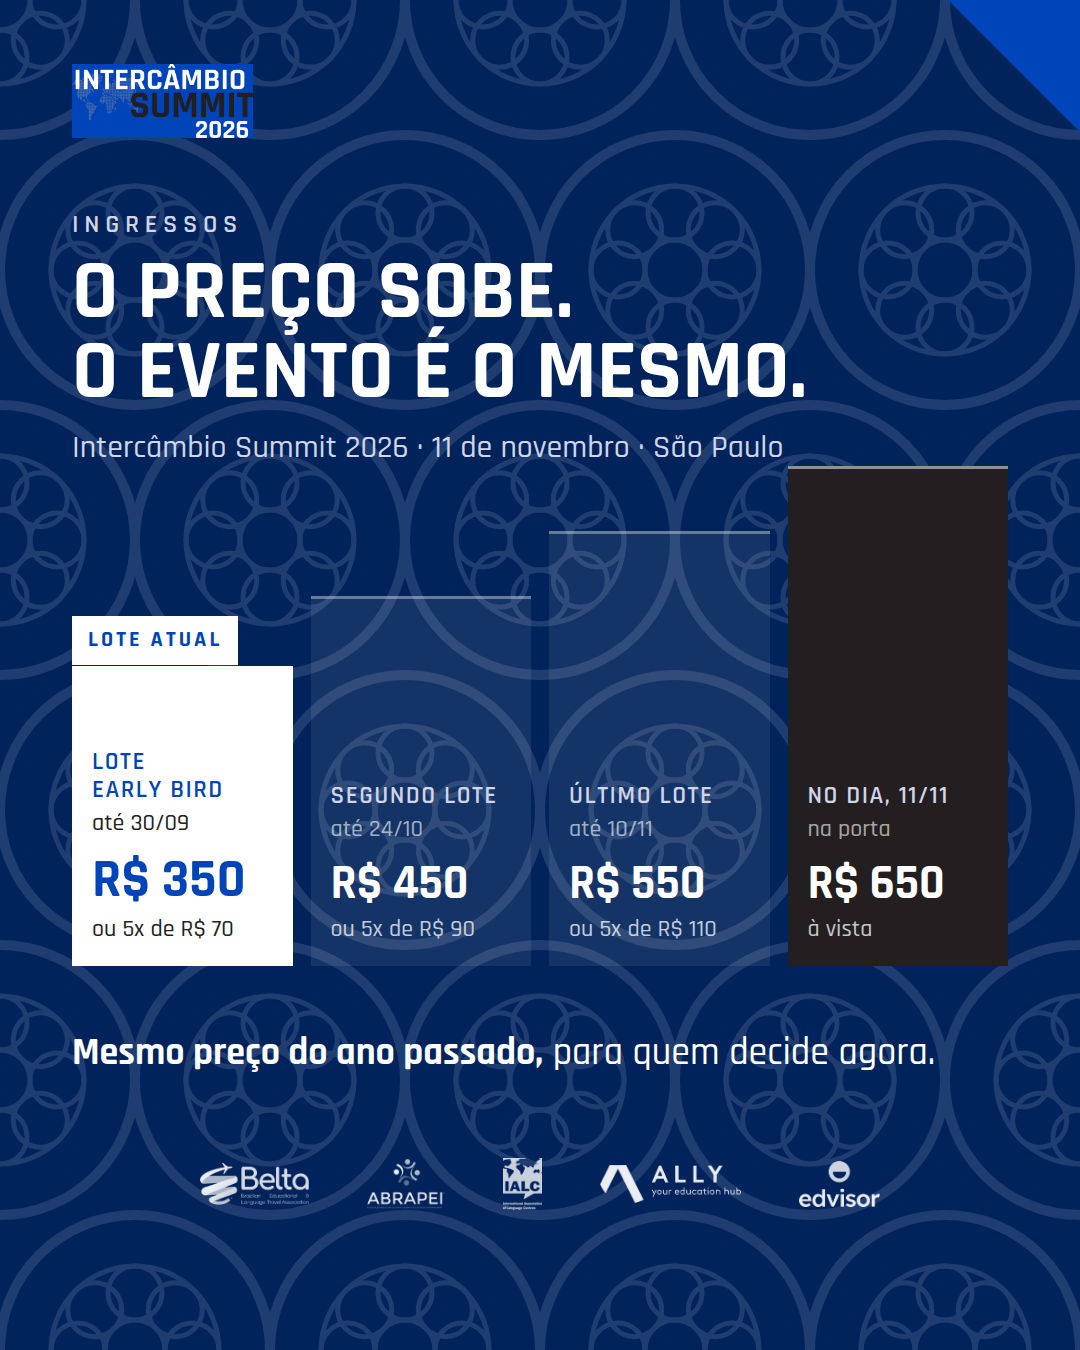
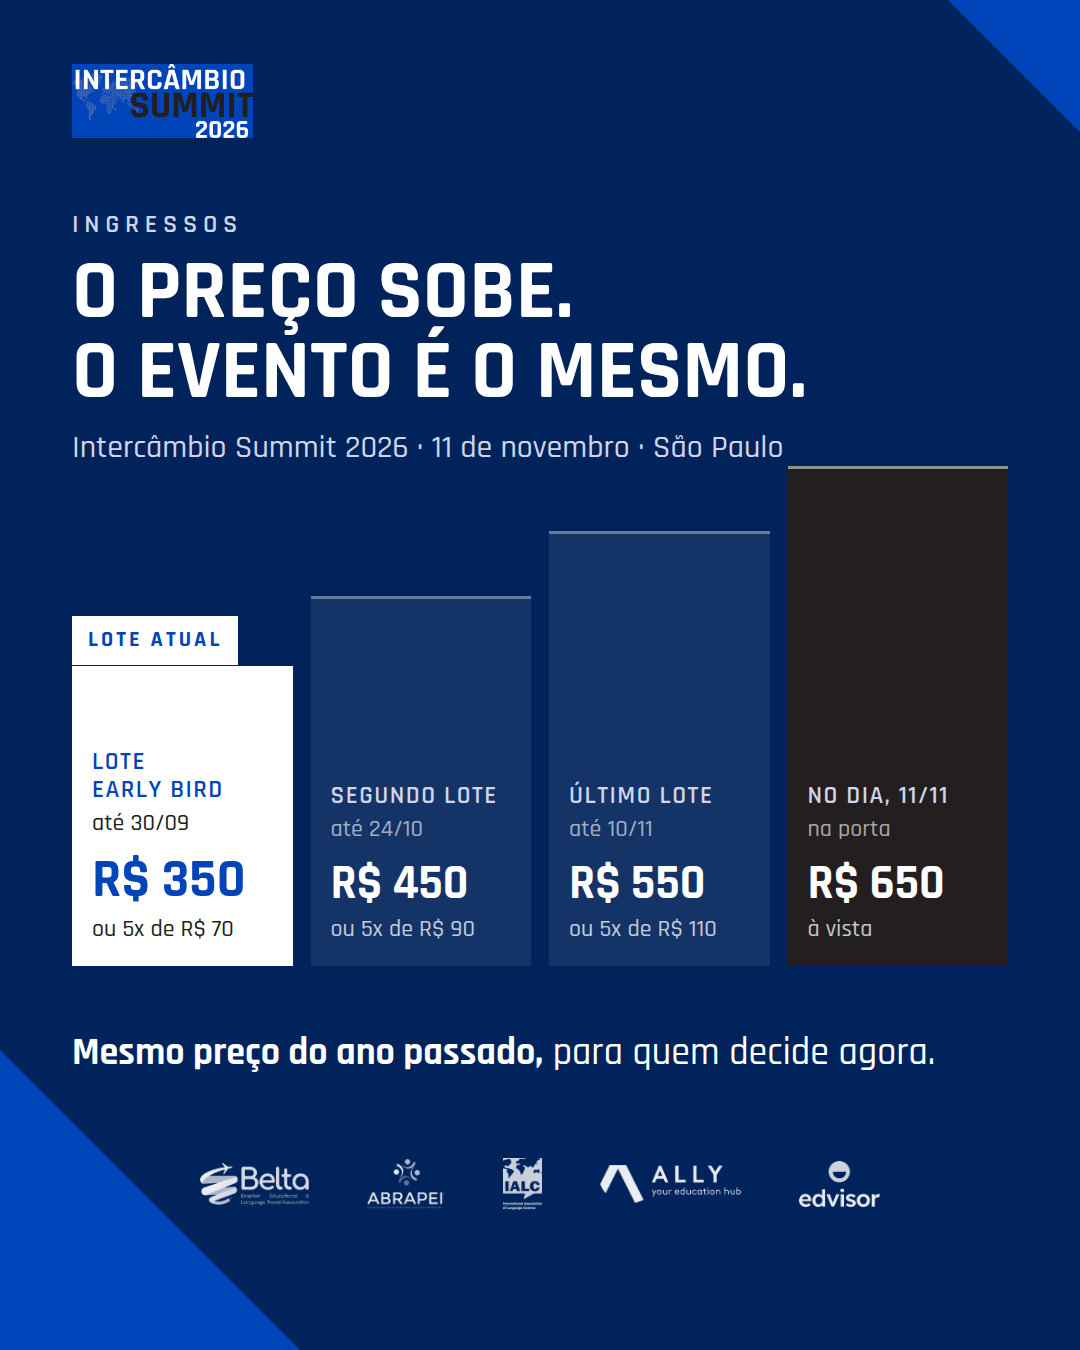
Fundos lisos com dispositivo angular 45° no lugar do mosaico
- Remove a textura de rosetas (assets/cenografia.svg) de todos os fundos
- Triângulos de canto conforme o manual (seção 06): Summit Blue sobre
  Deep Navy no Modelo B; brancos sobre Summit Blue no Modelo C; máx. 2
  por peça, cantos apenas, sem sobrepor conteúdo
- README: registra a regra de co-branding do manual (seção 08) sobre a
  faixa mono branca dos apoiadores

Claude-Session: https://claude.ai/code/session_01K1jUSLEfcAN8o76QZJPw2m

diff --git a/criativos/templates/modelo-c-finalista.html b/criativos/templates/modelo-c-finalista.html
@@ -8,20 +8,9 @@
   /* A foto 800x800 já vem assentada no Summit Blue exato (#0044B9) pelo
      pipeline tools/build_images.py — por isso ela funde sem emenda com o
      fundo do card, e os olhos caem sempre no mesmo terço nos 32 cards. */
+  /* fundo liso no Summit Blue exato: a foto 800x800 (já assentada no mesmo
+     azul pelo pipeline) funde sem emenda */
   .canvas { background: var(--summit-blue); }
-
-  /* a textura some gradualmente na área da foto, para não marcar a emenda
-     do quadrado 800x800 (que já vem no mesmo azul) */
-  .bg-cenografia {
-    -webkit-mask-image:
-      linear-gradient(to right, #000 0%, #000 30%, rgba(0,0,0,.4) 44%, rgba(0,0,0,0) 58%),
-      linear-gradient(to bottom, rgba(0,0,0,0) 60%, rgba(0,0,0,.5) 72%, #000 84%);
-    -webkit-mask-composite: source-over;
-    mask-image:
-      linear-gradient(to right, #000 0%, #000 30%, rgba(0,0,0,.4) 44%, rgba(0,0,0,0) 58%),
-      linear-gradient(to bottom, rgba(0,0,0,0) 60%, rgba(0,0,0,.5) 72%, #000 84%);
-    mask-composite: add;
-  }
 
   .foto { position: absolute; top: 158px; right: 0; width: 700px; height: 700px; }
   .foto img { width: 100%; height: 100%; }
@@ -63,7 +52,9 @@
 </head>
 <body>
 <div class="canvas">
-  <div class="bg-cenografia"></div>
+  <!-- sobre Summit Blue o dispositivo angular é branco (manual, seção 06) -->
+  <div class="canto-45 branco"></div>
+  <div class="plano-45 branco" style="width:180px;height:180px;"></div>
 
   <div class="conteudo">
     <div class="topo-logo"><img src="../../site/assets/img/marca/summit-logo-reverso-240.png" alt="Intercâmbio Summit 2026"></div>

diff --git a/criativos/templates/base.css b/criativos/templates/base.css
@@ -57,15 +57,11 @@ img { display: block; }
     linear-gradient(105deg, rgba(0,26,63,.55) 0%, rgba(0,26,63,.10) 60%);
 }
 
-/* textura da cenografia (padrão geométrico do auditório), sempre discreta */
-.bg-cenografia {
-  position: absolute; inset: 0;
-  background-image: url("../assets/cenografia.svg");
-  background-size: 540px 540px;
-  opacity: .12;
-}
-
-/* dispositivo angular 45° no canto superior direito (1 por peça) */
+/* Dispositivo angular 45° (Brand Guidelines v1.0, seção 06):
+   SEMPRE Summit Blue ou branco; só cantos/bordas; nunca sobre conteúdo
+   primário; no máximo 1–2 por peça.
+   .canto-45 = triângulo no canto superior direito;
+   .plano-45 = triângulo no canto inferior esquerdo. */
 .canto-45 {
   position: absolute; top: 0; right: 0; z-index: 6;
   width: 132px; height: 132px;
@@ -73,6 +69,14 @@ img { display: block; }
   clip-path: polygon(100% 0, 100% 100%, 0 0);
 }
 .canto-45.branco { background: var(--white); }
+
+.plano-45 {
+  position: absolute; left: 0; bottom: 0; z-index: 1;
+  width: 300px; height: 300px;
+  background: var(--summit-blue);
+  clip-path: polygon(0 0, 100% 100%, 0 100%);
+}
+.plano-45.branco { background: var(--white); }
 
 /* ---------- camada de conteúdo ---------- */
 .conteudo { position: absolute; inset: 0; z-index: 4; }

diff --git a/criativos/templates/modelo-b-precos.html b/criativos/templates/modelo-b-precos.html
@@ -56,7 +56,7 @@
 </head>
 <body>
 <div class="canvas">
-  <div class="bg-cenografia"></div>
+  <div class="plano-45"></div>
   <div class="canto-45"></div>
 
   <div class="conteudo">

diff --git a/criativos/README.md b/criativos/README.md
@@ -37,9 +37,11 @@ Tamanhos: feed/carrossel 1080x1350 · story 1080x1920 · LinkedIn 1200x627
   faixa de apoiadores, CTA verde (uso exclusivo do Action Green).
 - `templates/modelo-*.html` — um template por família de peça; placeholders
   `{{CHAVE}}` substituídos pelo `render.py`.
-- `assets/cenografia.svg` — eco vetorial da cenografia geométrica do
-  auditório, para peças sem foto (P3, P5, Modelo B) e fundo dos cards.
-  Não é o mapa pontilhado do logo (o manual proíbe extraí-lo).
+- Fundos sem foto são lisos (Summit Blue / Deep Navy) com o **dispositivo
+  angular 45°** do manual (seção 06): triângulos nos cantos, sempre em
+  Summit Blue ou branco, nunca sobre conteúdo, máx. 2 por peça
+  (`.canto-45` e `.plano-45` no `base.css`). Decisão de 01/09: sem
+  textura/mosaico de fundo.
 - `assets/marca/apoio-*-branco.png` — logos dos apoiadores em mono branco,
   equalizados por peso óptico (gerar de novo: `tools/build_criativos_marca.py`).
 - `assets/fonts/` — Rajdhani (OFL) local, para render determinístico.
@@ -52,9 +54,11 @@ Tamanhos: feed/carrossel 1080x1350 · story 1080x1920 · LinkedIn 1200x627
    logo oficial, substituir no `modelo-c-finalista.html`.
 2. **Headline do Modelo B** ("O preço sobe. O evento é o mesmo.") é
    proposta de copy — o briefing fixava apenas o fechamento.
-3. **Faixa de apoiadores em mono branco** sobre azul: pedido do briefing;
-   o manual da marca pede logos sem recolorir sobre branco. O manual também
-   pede confirmação por escrito dos parceiros para material co-brandado.
+3. **Faixa de apoiadores em mono branco** sobre azul: pedido do briefing,
+   mas o Brand Guidelines (seção 08) proíbe recolorir/alterar logos de
+   parceiros e exige confirmação POR ESCRITO de cada um antes de publicar
+   material co-brandado. Publicar só com esse aceite (ou trocar a faixa
+   pelos logos coloridos sobre régua branca, que é o formato do manual).
 4. **Guilherme Garcia** (pior caso): halo de recorte visível no contorno —
    o refino de borda precisa dos ORIGINAIS das fotos, que não estão neste
    repositório (ver `tools/build_images.py`, caminhos locais do Rodrigo).
